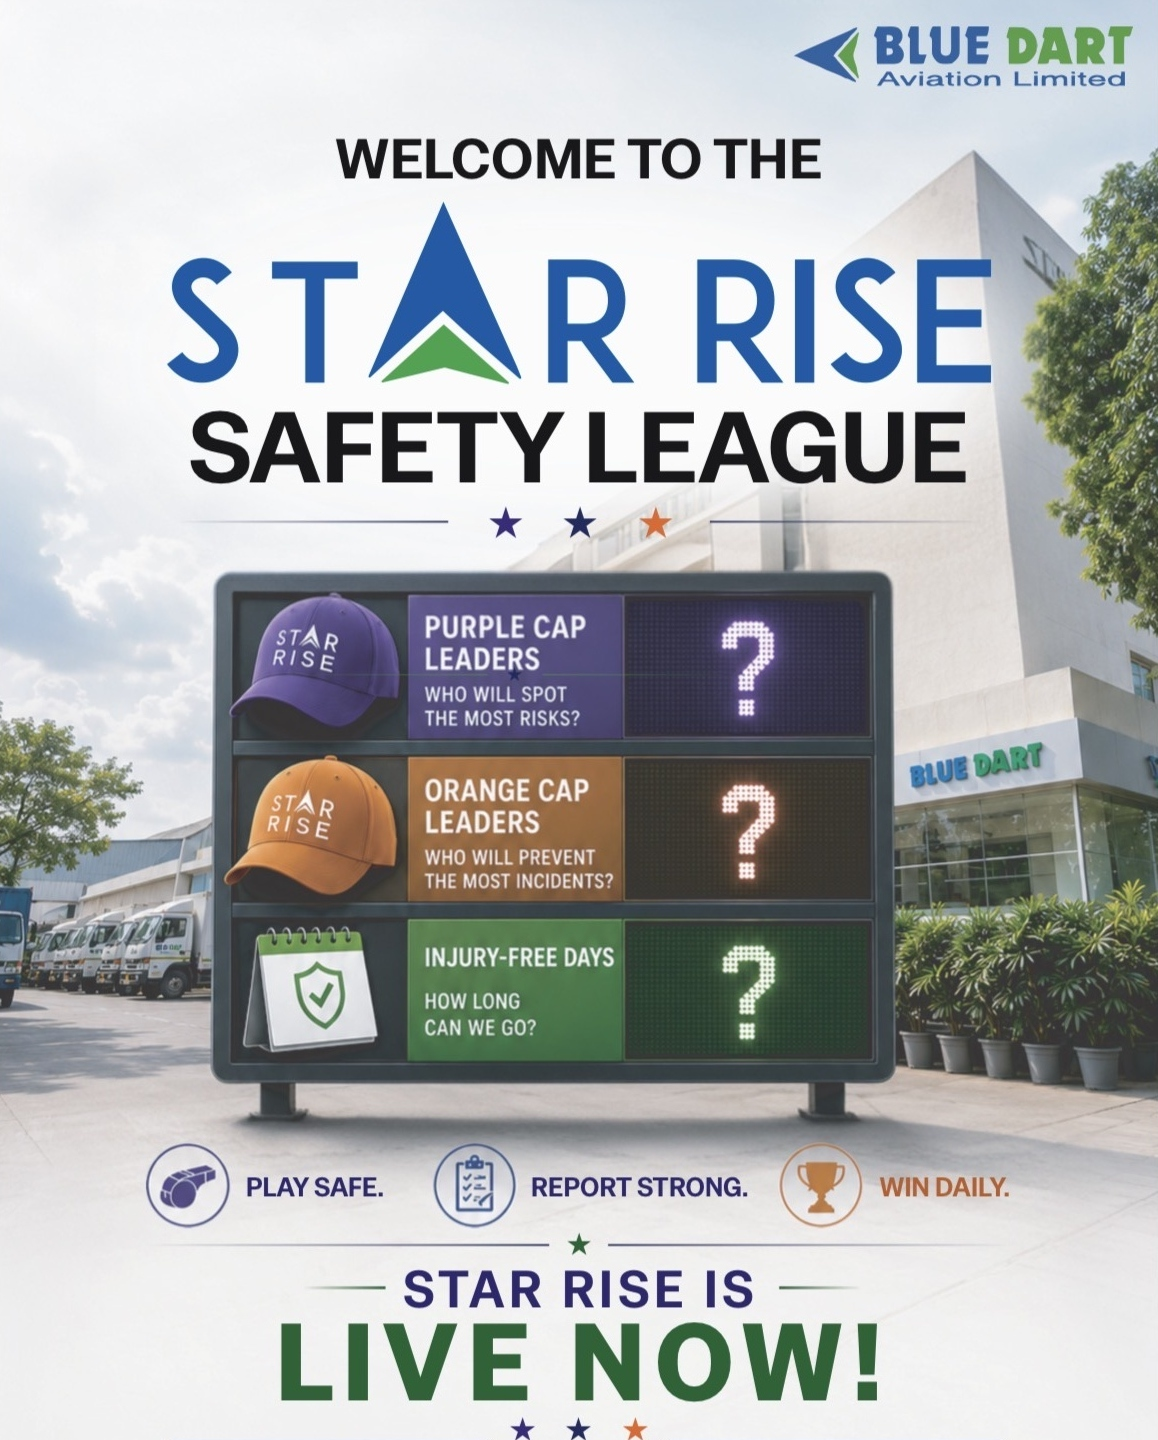
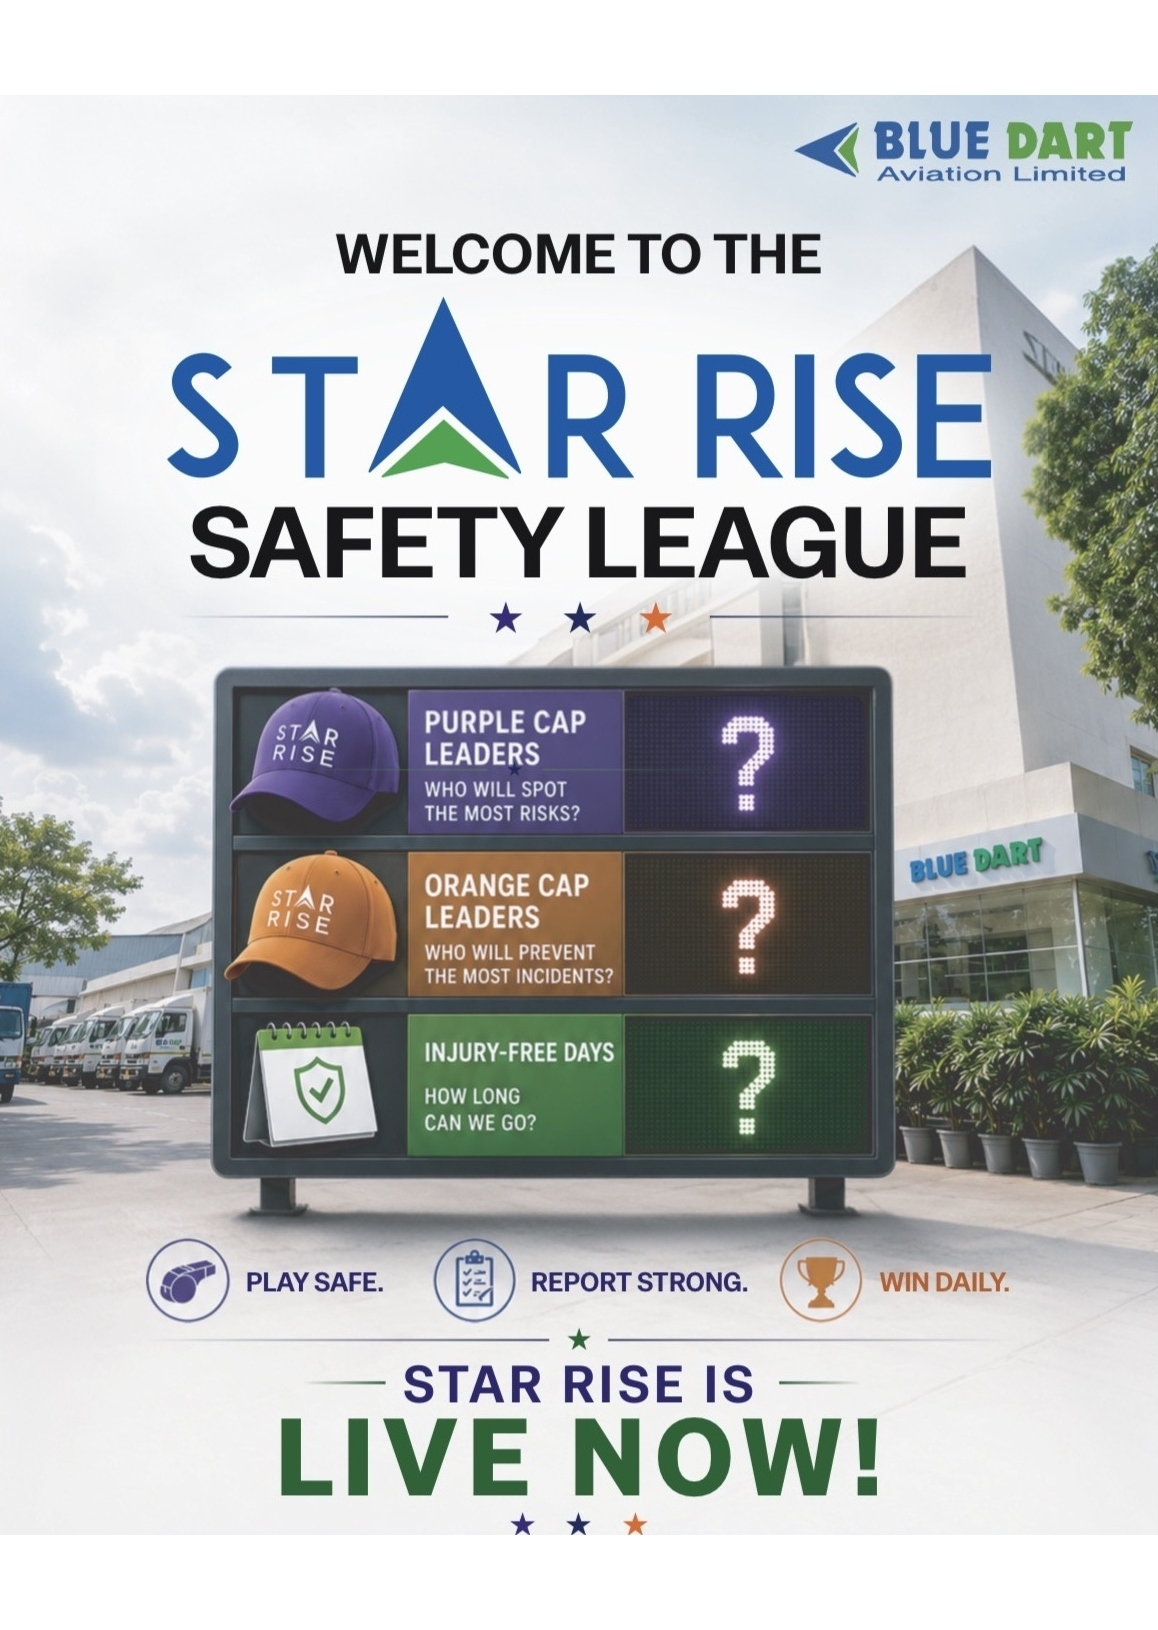
Equalize campaign poster dimensions and aspect ratio

diff --git a/public/css/style.css b/public/css/style.css
@@ -163,6 +163,7 @@ h1 {
     flex: 1;
     min-width: 300px;
     max-width: 550px;
+    aspect-ratio: 1158 / 1630;
     border-radius: 16px;
     overflow: hidden;
     background: transparent;
@@ -181,9 +182,9 @@ h1 {
 
 .poster-img {
     width: 100%;
-    height: auto;
+    height: 100%;
     display: block;
-    object-fit: contain;
+    object-fit: cover;
     border-radius: 16px;
 }
 
